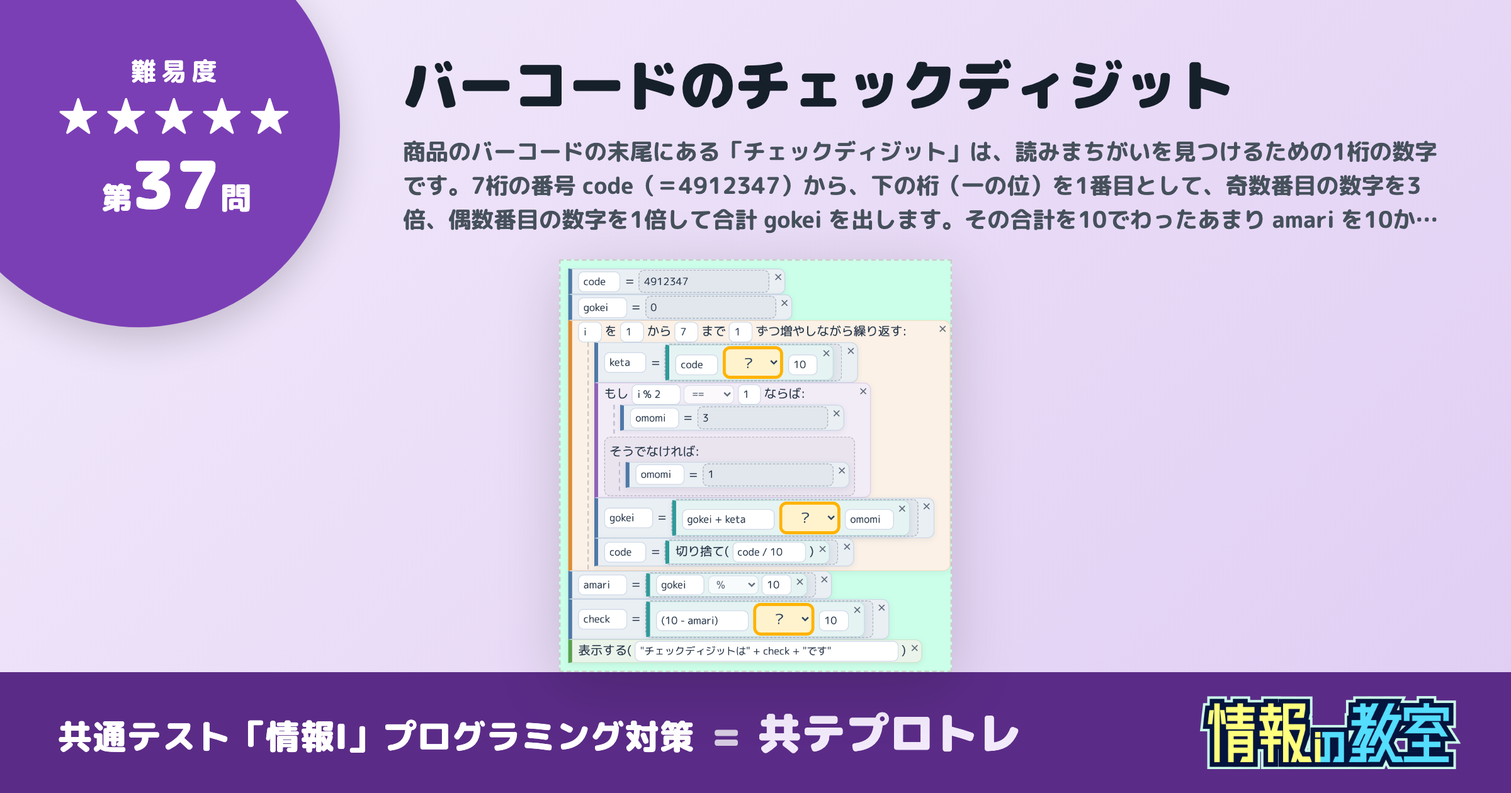
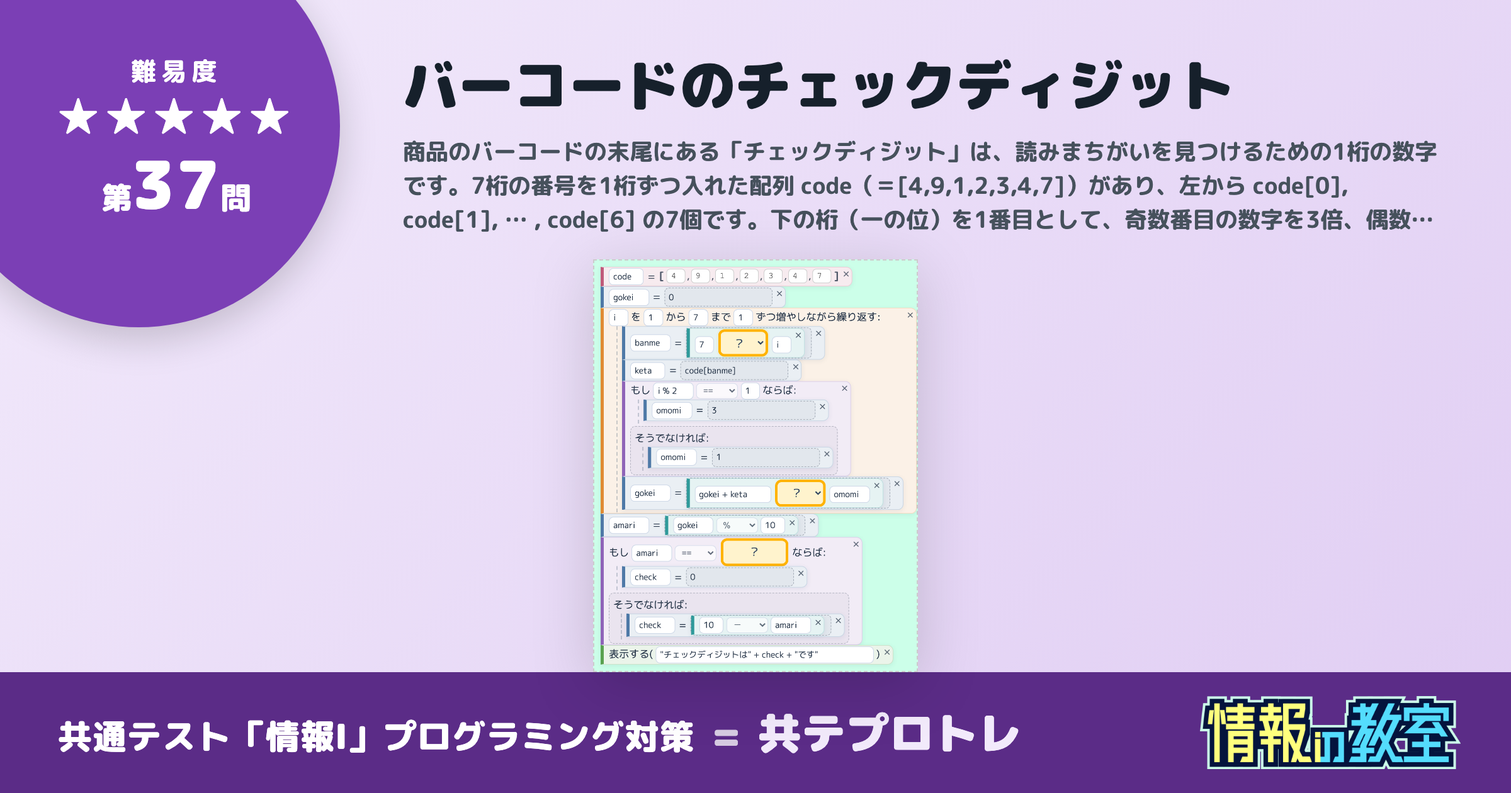
q037: 桁の取り出しを配列にし、チェックディジットの分岐を素直な形に直す
- 7桁の番号を数値 4912347 から配列 [4,9,1,2,3,4,7] に変更。code % 10 と
  切り捨て(code / 10) で1桁ずつ削る処理をやめ、穴Aを「下から i 番目は
  配列の何番目か」（banme = 7 - i）に差し替えた。0始まりの添字は★5の
  題材として素直で、配列ブロックの表示にも乗る。
- 穴Cを (10 - amari) % 10 の「1桁におさめる」トリックから、
  もし amari == 0 ならば check = 0 / そうでなければ check = 10 - amari
  の分岐に変更し、条件の値そのものを穴にした（選択肢に 0 / 1 / 10 を追加）。
  誤答だと出力が「10です」と2桁になり、実行すれば間違いに気づける。
- 問題文を「合計の下1桁を10からひく。ただし下1桁が0となった場合は0」の
  言い方に統一し、ヒントも合わせた。

答えは 穴A=-／穴B=*／穴C=0、出力は「チェックディジットは0です」。

Changed region(s): [[0.25, 0.2167, 0.9375, 0.8667]]

diff --git a/dncl-scratch/quiz/q037/index.html b/dncl-scratch/quiz/q037/index.html
@@ -6,7 +6,7 @@
     <meta name="viewport" content="width=device-width, initial-scale=1.0">
 
     <title>第37問 バーコードのチェックディジット｜共通テスト「情報I」プログラミング演習 | 共テプロトレ</title>
-    <meta name="description" content="商品のバーコードの末尾にある「チェックディジット」は、読みまちがいを見つけるための1桁の数字です。7桁の番号 code（＝4912347）から、下の桁（一の位）を1番目として、奇数番目の数字を3倍、偶数番目の数字を1倍して合計 gokei を出します。その合計を10でわったあまり amari を10からひき、さらに1桁におさめてチェックディジットを求めます（3か所の穴をうめよう）｜DNCL（共通テスト用プログラム表記）の穴埋め問題（難易度5）。ブラウザ上でプログラムを実際に動かしながら解けます。">
+    <meta name="description" content="商品のバーコードの末尾にある「チェックディジット」は、読みまちがいを見つけるための1桁の数字です。7桁の番号を1桁ずつ入れた配列 code（＝[4,9,1,2,3,4,7]）があり、左から code[0], code[1], … , code[6] の7個です。下の桁（一の位）を1番目として、奇数番目の数字を3倍、偶数番目の数字を1倍し、合計 gokei を出します。その合計の下1桁 amari を10からひいたものがチェックディジットです。ただし、下1桁が0となった場合は、チェックディジットは0となります（3か所の穴をうめよう）｜DNCL（共通テスト用プログラム表記）の穴埋め問題（難易度5）。ブラウザ上でプログラムを実際に動かしながら解けます。">
     <meta name="keywords" content="プログラミング学習,情報I,DNCL,共通テスト,バーコードのチェックディジット">
     <meta name="robots" content="index, follow">
     <link rel="canonical" href="https://joho-kyoshitsu.com/dncl-scratch/quiz/q037/index.html">
@@ -15,7 +15,7 @@
     <meta property="og:type" content="article">
     <meta property="og:site_name" content="情報の教室">
     <meta property="og:title" content="第37問 バーコードのチェックディジット｜共通テスト「情報I」プログラミング演習 | 共テプロトレ">
-    <meta property="og:description" content="商品のバーコードの末尾にある「チェックディジット」は、読みまちがいを見つけるための1桁の数字です。7桁の番号 code（＝4912347）から、下の桁（一の位）を1番目として、奇数番目の数字を3倍、偶数番目の数字を1倍して合計 gokei を出します。その合計を10でわったあまり amari を10からひき、さらに1桁におさめてチェックディジットを求めます（3か所の穴をうめよう）｜DNCL（共通テスト用プログラム表記）の穴埋め問題（難易度5）。ブラウザ上でプログラムを実際に動かしながら解けます。">
+    <meta property="og:description" content="商品のバーコードの末尾にある「チェックディジット」は、読みまちがいを見つけるための1桁の数字です。7桁の番号を1桁ずつ入れた配列 code（＝[4,9,1,2,3,4,7]）があり、左から code[0], code[1], … , code[6] の7個です。下の桁（一の位）を1番目として、奇数番目の数字を3倍、偶数番目の数字を1倍し、合計 gokei を出します。その合計の下1桁 amari を10からひいたものがチェックディジットです。ただし、下1桁が0となった場合は、チェックディジットは0となります（3か所の穴をうめよう）｜DNCL（共通テスト用プログラム表記）の穴埋め問題（難易度5）。ブラウザ上でプログラムを実際に動かしながら解けます。">
     <meta property="og:url" content="https://joho-kyoshitsu.com/dncl-scratch/quiz/q037/index.html">
     <meta property="og:image" content="https://joho-kyoshitsu.com/dncl-scratch/quiz/img/q037.png">
     <meta property="og:locale" content="ja_JP">
@@ -23,7 +23,7 @@
     <!-- Twitterカード -->
     <meta name="twitter:card" content="summary_large_image">
     <meta name="twitter:title" content="第37問 バーコードのチェックディジット｜共通テスト「情報I」プログラミング演習 | 共テプロトレ">
-    <meta name="twitter:description" content="商品のバーコードの末尾にある「チェックディジット」は、読みまちがいを見つけるための1桁の数字です。7桁の番号 code（＝4912347）から、下の桁（一の位）を1番目として、奇数番目の数字を3倍、偶数番目の数字を1倍して合計 gokei を出します。その合計を10でわったあまり amari を10からひき、さらに1桁におさめてチェックディジットを求めます（3か所の穴をうめよう）｜DNCL（共通テスト用プログラム表記）の穴埋め問題（難易度5）。ブラウザ上でプログラムを実際に動かしながら解けます。">
+    <meta name="twitter:description" content="商品のバーコードの末尾にある「チェックディジット」は、読みまちがいを見つけるための1桁の数字です。7桁の番号を1桁ずつ入れた配列 code（＝[4,9,1,2,3,4,7]）があり、左から code[0], code[1], … , code[6] の7個です。下の桁（一の位）を1番目として、奇数番目の数字を3倍、偶数番目の数字を1倍し、合計 gokei を出します。その合計の下1桁 amari を10からひいたものがチェックディジットです。ただし、下1桁が0となった場合は、チェックディジットは0となります（3か所の穴をうめよう）｜DNCL（共通テスト用プログラム表記）の穴埋め問題（難易度5）。ブラウザ上でプログラムを実際に動かしながら解けます。">
     <meta name="twitter:image" content="https://joho-kyoshitsu.com/dncl-scratch/quiz/img/q037.png">
 
     <script type="application/ld+json">
@@ -47,10 +47,10 @@
       "hasPart": {
         "@type": "Question",
         "eduQuestionType": "Multiple choice",
-        "text": "商品のバーコードの末尾にある「チェックディジット」は、読みまちがいを見つけるための1桁の数字です。7桁の番号 code（＝4912347）から、下の桁（一の位）を1番目として、奇数番目の数字を3倍、偶数番目の数字を1倍して合計 gokei を出します。その合計を10でわったあまり amari を10からひき、さらに1桁におさめてチェックディジットを求めます（3か所の穴をうめよう）",
+        "text": "商品のバーコードの末尾にある「チェックディジット」は、読みまちがいを見つけるための1桁の数字です。7桁の番号を1桁ずつ入れた配列 code（＝[4,9,1,2,3,4,7]）があり、左から code[0], code[1], … , code[6] の7個です。下の桁（一の位）を1番目として、奇数番目の数字を3倍、偶数番目の数字を1倍し、合計 gokei を出します。その合計の下1桁 amari を10からひいたものがチェックディジットです。ただし、下1桁が0となった場合は、チェックディジットは0となります（3か所の穴をうめよう）",
         "acceptedAnswer": {
           "@type": "Answer",
-          "text": "% , * , %"
+          "text": "- , * , 0"
         },
         "suggestedAnswer": [
           {
@@ -72,6 +72,18 @@
           {
             "@type": "Answer",
             "text": "%"
+          },
+          {
+            "@type": "Answer",
+            "text": "0"
+          },
+          {
+            "@type": "Answer",
+            "text": "1"
+          },
+          {
+            "@type": "Answer",
+            "text": "10"
           }
         ]
       }
@@ -121,22 +133,25 @@
     <noscript>
         <article>
             <h1>第37問 バーコードのチェックディジット</h1>
-            <p>商品のバーコードの末尾にある「チェックディジット」は、読みまちがいを見つけるための1桁の数字です。7桁の番号 code（＝4912347）から、下の桁（一の位）を1番目として、奇数番目の数字を3倍、偶数番目の数字を1倍して合計 gokei を出します。その合計を10でわったあまり amari を10からひき、さらに1桁におさめてチェックディジットを求めます（3か所の穴をうめよう）</p>
+            <p>商品のバーコードの末尾にある「チェックディジット」は、読みまちがいを見つけるための1桁の数字です。7桁の番号を1桁ずつ入れた配列 code（＝[4,9,1,2,3,4,7]）があり、左から code[0], code[1], … , code[6] の7個です。下の桁（一の位）を1番目として、奇数番目の数字を3倍、偶数番目の数字を1倍し、合計 gokei を出します。その合計の下1桁 amari を10からひいたものがチェックディジットです。ただし、下1桁が0となった場合は、チェックディジットは0となります（3か所の穴をうめよう）</p>
             <p>難易度：★★★★★（5／難しい）。共通テスト「情報I」で使われるDNCL（共通テスト用プログラム表記）の穴埋め問題です。JavaScriptを有効にすると、このページでプログラムを組み立てて実行しながら解けます。</p>
 
             <h2>プログラム</h2>
-            <pre><code>code = 4912347
+            <pre><code>code = [4,9,1,2,3,4,7]
 gokei = 0
 i を 1 から 7 まで 1 ずつ増やしながら繰り返す:
-  keta = code ［A］ 10
+  banme = 7 ［A］ i
+  keta = code[banme]
   もし i % 2 == 1 ならば:
     omomi = 3
   そうでなければ:
     omomi = 1
   gokei = gokei + keta ［B］ omomi
-  code = 切り捨て(code / 10)
 amari = gokei % 10
-check = (10 - amari) ［C］ 10
+もし amari == ［C］ ならば:
+  check = 0
+そうでなければ:
+  check = 10 - amari
 表示する(&quot;チェックディジットは&quot; + check + &quot;です&quot;)</code></pre>
             <p>空欄 ［A］・［B］・［C］ に当てはまるものを、次の選択肢から選びます。</p>
 
@@ -147,27 +162,31 @@ check = (10 - amari) ［C］ 10
                 <li><code>*</code></li>
                 <li><code>/</code></li>
                 <li><code>%</code></li>
+                <li><code>0</code></li>
+                <li><code>1</code></li>
+                <li><code>10</code></li>
             </ul>
 
             <h2>ヒント</h2>
-            <p>一の位は code % 10 で取り出し、重みは keta * omomi でかけます。最後がポイントで、gokei ＝ 60 なら amari ＝ 0、10 - 0 ＝ 10 は2桁なので、% 10 でもう一度あまりを取って0にもどします。答えは0です</p>
+            <p>配列の番号は code[0] から始まるので、下から i 番目は code[7 - i] です（i ＝ 1 なら右はしの code[6] ＝ 7）。重みは keta * omomi でかけます。この番号は gokei ＝ 60 なので下1桁は0。10 - 0 ＝ 10 は2桁になってしまうので、下1桁が0となった場合はチェックディジットを0とします。答えは0です</p>
 
             <h2>解答</h2>
             <ul>
-            <li>空欄 ［A］ … <code>%</code></li>
+            <li>空欄 ［A］ … <code>-</code></li>
             <li>空欄 ［B］ … <code>*</code></li>
-            <li>空欄 ［C］ … <code>%</code></li>
+            <li>空欄 ［C］ … <code>0</code></li>
             </ul>
             <h2>よくある間違い</h2>
             <ul>
-            <li>［A］<code>/</code>　［B］<code>*</code>　［C］<code>%</code> … 1つ目は「一の位の数字」を取り出すところです。/ だと商になり、4912347 / 10 ＝ 491234.7 で1桁の数字になりません。あまりを出す % を使って 4912347 % 10 ＝ 7 としましょう</li>
-            <li>［A］<code>+</code>　［B］<code>*</code>　［C］<code>%</code> … たし算では 4912347 + 10 ＝ 4912357 となり、一の位を取り出せません。一の位は10でわったあまりなので % を使います</li>
-            <li>［A］<code>%</code>　［B］<code>+</code>　［C］<code>%</code> … 重み omomi は「かける」ものです。keta + omomi だと 7 + 3 ＝ 10 となり、3倍したことになりません。keta * omomi で 7 * 3 ＝ 21 とします</li>
-            <li>［A］<code>%</code>　［B］<code>/</code>　［C］<code>%</code> … わり算では 7 / 3 ＝ 2.33… と小数になり、3倍の重みになりません。「3倍」はかけ算なので * を使います</li>
-            <li>［A］<code>%</code>　［B］<code>%</code>　［C］<code>%</code> … % はあまりです。keta % omomi だと 7 % 3 ＝ 1 となり、重みをかけたことになりません。3倍するのは * です</li>
-            <li>［A］<code>%</code>　［B］<code>*</code>　［C］<code>-</code> … この番号ではあまりが0なので (10 - 0) - 10 ＝ 0 とたまたま合いますが、あまりが4のときは (10 - 4) - 10 ＝ -6 とマイナスになってしまいます。10でわったあまりを取る % なら、いつでも0〜9におさまります</li>
-            <li>［A］<code>%</code>　［B］<code>*</code>　［C］<code>/</code> … わり算だと (10 - 0) / 10 ＝ 1 となり、正しい0になりません。ほしいのは商ではなく「10でわったあまり」なので % を使います</li>
-            <li>［A］<code>%</code>　［B］<code>*</code>　［C］<code>+</code> … たし算だと (10 - 0) + 10 ＝ 20 となり、1桁のチェックディジットになりません。10になってしまったときに0へもどすため % を使います</li>
+            <li>［A］<code>+</code>　［B］<code>*</code>　［C］<code>0</code> … 1つ目は「下から i 番目は配列の何番目か」を決めるところです。7 + i だと i ＝ 1 のとき code[8] になり、7個しかない配列にその番号はありません。下から1番目は右はしの code[6] なので 7 - i とします</li>
+            <li>［A］<code>*</code>　［B］<code>*</code>　［C］<code>0</code> … 7 * i だと i ＝ 1 のとき code[7] になり、配列の外を見てしまいます。番号は code[0] から code[6] までなので、7 - i で右はしからさかのぼります</li>
+            <li>［A］<code>/</code>　［B］<code>*</code>　［C］<code>0</code> … 7 / i だと i ＝ 3 のとき 2.33… と小数になり、配列の番号になりません。1ずつ左へずらしたいので、ひき算の 7 - i を使います</li>
+            <li>［A］<code>%</code>　［B］<code>*</code>　［C］<code>0</code> … % はあまりです。7 % i だと i ＝ 1 で0、i ＝ 2 で1 とバラバラな番号になり、右から順に見ていけません。i が1ふえるごとに番号が1へるように 7 - i とします</li>
+            <li>［A］<code>-</code>　［B］<code>+</code>　［C］<code>0</code> … 重み omomi は「かける」ものです。keta + omomi だと 7 + 3 ＝ 10 となり、3倍したことになりません。keta * omomi で 7 * 3 ＝ 21 とします</li>
+            <li>［A］<code>-</code>　［B］<code>/</code>　［C］<code>0</code> … わり算では 7 / 3 ＝ 2.33… と小数になり、3倍の重みになりません。「3倍」はかけ算なので * を使います</li>
+            <li>［A］<code>-</code>　［B］<code>%</code>　［C］<code>0</code> … % はあまりです。keta % omomi だと 7 % 3 ＝ 1 となり、重みをかけたことになりません。3倍するのは * です</li>
+            <li>［A］<code>-</code>　［B］<code>*</code>　［C］<code>1</code> … 下1桁が1のときは 10 - 1 ＝ 9 で、ちゃんと1桁におさまります。特別あつかいがいるのは、10 - amari が2桁の10になってしまうとき、つまり下1桁が0のときです</li>
+            <li>［A］<code>-</code>　［B］<code>*</code>　［C］<code>10</code> … amari は合計の下1桁なので0〜9にしかならず、10 になることはありません。これでは一度も使われない分岐です。2桁になってしまうのは下1桁が0のときなので、amari == 0 とします</li>
             </ul>
 
             <h2>ほかの問題</h2>

diff --git a/dncl-scratch/quiz-data.js b/dncl-scratch/quiz-data.js
@@ -2633,12 +2633,12 @@ window.quizData = {
         title: "バーコードのチェックディジット",
         addedAt: "2026-08-07",
         difficulty: 5,
-        question: "商品のバーコードの末尾にある「チェックディジット」は、読みまちがいを見つけるための1桁の数字です。7桁の番号 code（＝4912347）から、下の桁（一の位）を1番目として、奇数番目の数字を3倍、偶数番目の数字を1倍して合計 gokei を出します。その合計を10でわったあまり amari を10からひき、さらに1桁におさめてチェックディジットを求めます（3か所の穴をうめよう）",
+        question: "商品のバーコードの末尾にある「チェックディジット」は、読みまちがいを見つけるための1桁の数字です。7桁の番号を1桁ずつ入れた配列 code（＝[4,9,1,2,3,4,7]）があり、左から code[0], code[1], … , code[6] の7個です。下の桁（一の位）を1番目として、奇数番目の数字を3倍、偶数番目の数字を1倍し、合計 gokei を出します。その合計の下1桁 amari を10からひいたものがチェックディジットです。ただし、下1桁が0となった場合は、チェックディジットは0となります（3か所の穴をうめよう）",
         ast: [
             {
                 type: "assign",
                 name: "code",
-                value: "4912347"
+                value: "[4,9,1,2,3,4,7]"
             },
             {
                 type: "assign",
@@ -2654,8 +2654,13 @@ window.quizData = {
                 body: [
                     {
                         type: "assign",
+                        name: "banme",
+                        value: "7 __BLANK_blank_a__ i"
+                    },
+                    {
+                        type: "assign",
                         name: "keta",
-                        value: "code __BLANK_blank_a__ 10"
+                        value: "code[banme]"
                     },
                     {
                         type: "ifelse",
@@ -2679,11 +2684,6 @@ window.quizData = {
                         type: "assign",
                         name: "gokei",
                         value: "gokei + keta __BLANK_blank_b__ omomi"
-                    },
-                    {
-                        type: "assign",
-                        name: "code",
-                        value: "切り捨て(code / 10)"
                     }
                 ]
             },
@@ -2693,9 +2693,22 @@ window.quizData = {
                 value: "gokei % 10"
             },
             {
-                type: "assign",
-                name: "check",
-                value: "(10 - amari) __BLANK_blank_c__ 10"
+                type: "ifelse",
+                condition: "amari == __BLANK_blank_c__",
+                ifBody: [
+                    {
+                        type: "assign",
+                        name: "check",
+                        value: "0"
+                    }
+                ],
+                elseBody: [
+                    {
+                        type: "assign",
+                        name: "check",
+                        value: "10 - amari"
+                    }
+                ]
             },
             {
                 type: "print",
@@ -2708,53 +2721,61 @@ window.quizData = {
             { label: "*", value: "*" },
             { label: "/", value: "/" },
             { label: "%", value: "%" },
+            { label: "0", value: "0" },
+            { label: "1", value: "1" },
+            { label: "10", value: "10" },
         ],
         answers: [
             {
-                values: ["%", "*", "%"],
+                values: ["-", "*", "0"],
                 correct: true,
             },
             {
-                values: ["/", "*", "%"],
+                values: ["+", "*", "0"],
                 correct: false,
-                hint: "1つ目は「一の位の数字」を取り出すところです。/ だと商になり、4912347 / 10 ＝ 491234.7 で1桁の数字になりません。あまりを出す % を使って 4912347 % 10 ＝ 7 としましょう",
+                hint: "1つ目は「下から i 番目は配列の何番目か」を決めるところです。7 + i だと i ＝ 1 のとき code[8] になり、7個しかない配列にその番号はありません。下から1番目は右はしの code[6] なので 7 - i とします",
             },
             {
-                values: ["+", "*", "%"],
+                values: ["*", "*", "0"],
                 correct: false,
-                hint: "たし算では 4912347 + 10 ＝ 4912357 となり、一の位を取り出せません。一の位は10でわったあまりなので % を使います",
+                hint: "7 * i だと i ＝ 1 のとき code[7] になり、配列の外を見てしまいます。番号は code[0] から code[6] までなので、7 - i で右はしからさかのぼります",
             },
             {
-                values: ["%", "+", "%"],
+                values: ["/", "*", "0"],
+                correct: false,
+                hint: "7 / i だと i ＝ 3 のとき 2.33… と小数になり、配列の番号になりません。1ずつ左へずらしたいので、ひき算の 7 - i を使います",
+            },
+            {
+                values: ["%", "*", "0"],
+                correct: false,
+                hint: "% はあまりです。7 % i だと i ＝ 1 で0、i ＝ 2 で1 とバラバラな番号になり、右から順に見ていけません。i が1ふえるごとに番号が1へるように 7 - i とします",
+            },
+            {
+                values: ["-", "+", "0"],
                 correct: false,
                 hint: "重み omomi は「かける」ものです。keta + omomi だと 7 + 3 ＝ 10 となり、3倍したことになりません。keta * omomi で 7 * 3 ＝ 21 とします",
             },
             {
-                values: ["%", "/", "%"],
+                values: ["-", "/", "0"],
                 correct: false,
                 hint: "わり算では 7 / 3 ＝ 2.33… と小数になり、3倍の重みになりません。「3倍」はかけ算なので * を使います",
             },
             {
-                values: ["%", "%", "%"],
+                values: ["-", "%", "0"],
                 correct: false,
                 hint: "% はあまりです。keta % omomi だと 7 % 3 ＝ 1 となり、重みをかけたことになりません。3倍するのは * です",
             },
             {
-                values: ["%", "*", "-"],
+                values: ["-", "*", "1"],
                 correct: false,
-                hint: "この番号ではあまりが0なので (10 - 0) - 10 ＝ 0 とたまたま合いますが、あまりが4のときは (10 - 4) - 10 ＝ -6 とマイナスになってしまいます。10でわったあまりを取る % なら、いつでも0〜9におさまります",
+                hint: "下1桁が1のときは 10 - 1 ＝ 9 で、ちゃんと1桁におさまります。特別あつかいがいるのは、10 - amari が2桁の10になってしまうとき、つまり下1桁が0のときです",
             },
             {
-                values: ["%", "*", "/"],
+                values: ["-", "*", "10"],
                 correct: false,
-                hint: "わり算だと (10 - 0) / 10 ＝ 1 となり、正しい0になりません。ほしいのは商ではなく「10でわったあまり」なので % を使います",
-            },
-            {
-                values: ["%", "*", "+"],
-                correct: false,
-                hint: "たし算だと (10 - 0) + 10 ＝ 20 となり、1桁のチェックディジットになりません。10になってしまったときに0へもどすため % を使います",
+                hint: "amari は合計の下1桁なので0〜9にしかならず、10 になることはありません。これでは一度も使われない分岐です。2桁になってしまうのは下1桁が0のときなので、amari == 0 とします",
             }
         ],
-        defaultHint: "一の位は code % 10 で取り出し、重みは keta * omomi でかけます。最後がポイントで、gokei ＝ 60 なら amari ＝ 0、10 - 0 ＝ 10 は2桁なので、% 10 でもう一度あまりを取って0にもどします。答えは0です"
+        defaultHint: "配列の番号は code[0] から始まるので、下から i 番目は code[7 - i] です（i ＝ 1 なら右はしの code[6] ＝ 7）。重みは keta * omomi でかけます。この番号は gokei ＝ 60 なので下1桁は0。10 - 0 ＝ 10 は2桁になってしまうので、下1桁が0となった場合はチェックディジットを0とします。答えは0です"
     },
 }
